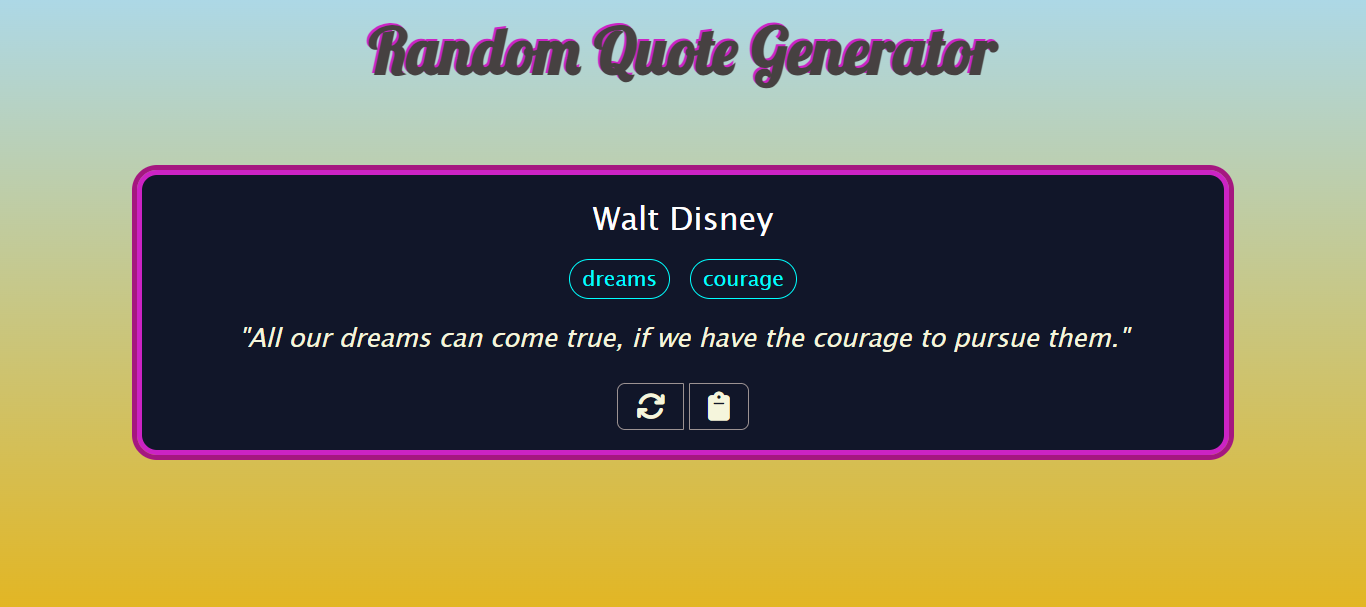
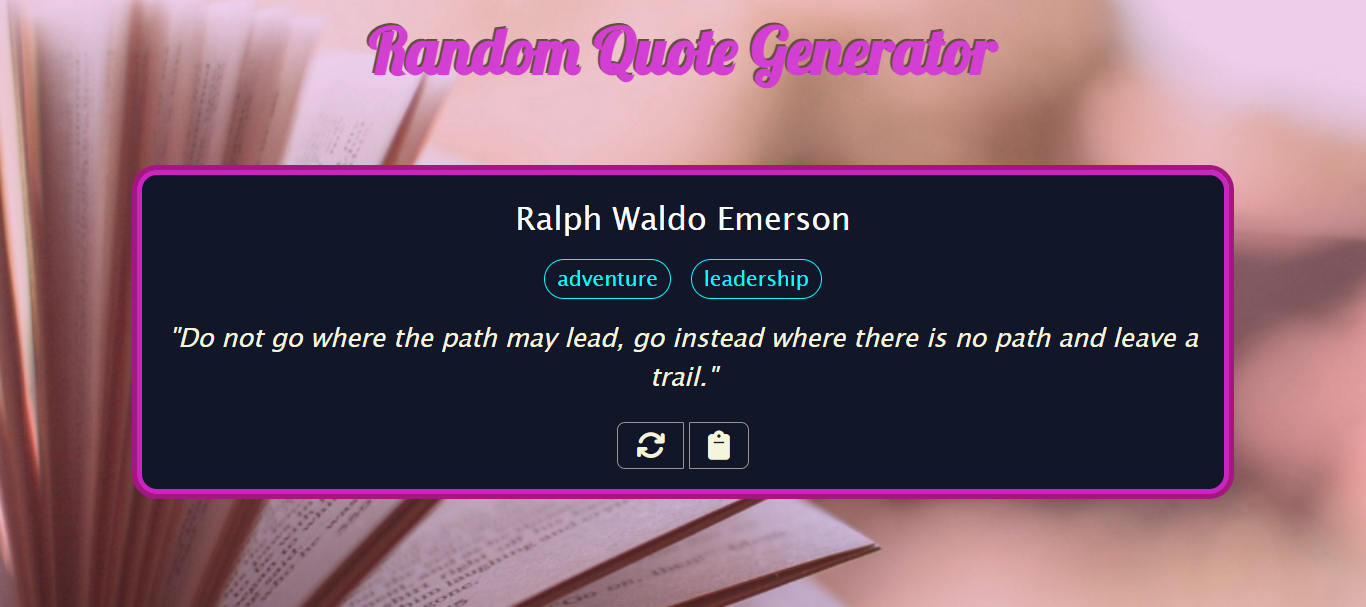
update backgroun-img

diff --git a/sass/_reset.scss b/sass/_reset.scss
@@ -13,7 +13,10 @@ html {
 body {
     font-family: 'Lucida Sans', 'Lucida Sans Regular', 'Lucida Grande', 'Lucida Sans Unicode', Geneva, Verdana, sans-serif;
     color: #464141;
-    background: linear-gradient(to bottom, #ADD8E6, #e2b624);
+    background-image: url("wisdomqr.png");
+    background-size: cover;
+    background-blend-mode: multiply;
+    background-color:rgb(238, 207, 236);
     min-height: 100vh;
 }
 

diff --git a/sass/_header.scss b/sass/_header.scss
@@ -23,7 +23,8 @@
     }
 
     h1 {
-      text-shadow: -2px -2px $color-violet;
+      color:rgb(211, 63, 211);
+      text-shadow: -2px -2px rgb(100, 79, 62);
       font-size: 2.3rem;
 
       @include breakpoint(tablet) {
